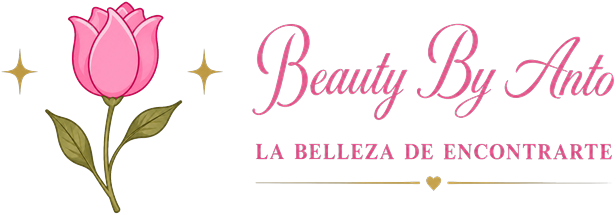
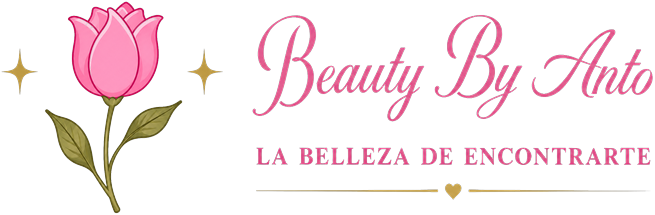
Add files via upload

diff --git a/metodos-pago.html b/metodos-pago.html
@@ -50,7 +50,8 @@
       display:flex; align-items:center;
       text-decoration:none; color:var(--ink);
     }
-    .brand .logo-header{ height:52px; width:auto; display:block; }
+    .brand .logo-desktop{ height:52px; width:auto; display:block; }
+    .brand .logo-mobile{ display:none; }
     .back-link{
       text-decoration:none; color:var(--fuchsia-dark); font-weight:600; font-size:14px;
       display:inline-flex; align-items:center; gap:6px;
@@ -58,7 +59,8 @@
 
     @media (max-width:480px){
       .topbar{ flex-wrap:wrap; gap:8px; }
-      .brand .logo-header{ height:64px; }
+      .brand .logo-desktop{ display:none; }
+      .brand .logo-mobile{ display:block; height:48px; width:auto; }
       .back-link{ font-size:13px; }
     }
 
@@ -150,7 +152,8 @@
   <header class="site-header">
     <div class="container topbar">
       <a class="brand" href="inicio.html">
-        <img class="logo-header" src="imagotipo-header.png" alt="Beauty By Anto — La belleza de encontrarte">
+        <img class="logo-desktop" src="imagotipo-header.png" alt="Beauty By Anto — La belleza de encontrarte">
+        <img class="logo-mobile" src="imagotipo-header-mobile.png" alt="Beauty By Anto — La belleza de encontrarte">
       </a>
       <a class="back-link" href="inicio.html">‹ Volver a la tienda</a>
     </div>

diff --git a/contacto.html b/contacto.html
@@ -72,9 +72,11 @@
       text-decoration:none; color:var(--ink);
     }
 
-    .brand .logo-header{
+    .brand .logo-desktop{
       height:64px; width:auto; display:block; flex-shrink:0;
     }
+
+    .brand .logo-mobile{ display:none; }
 
     nav.main-nav{ display:flex; gap:6px; }
 
@@ -360,7 +362,10 @@
         grid-column:2; grid-row:1;
         flex-direction:column; align-items:center; text-align:center; gap:2px;
       }
-      .brand .logo-header{ height:84px; width:auto; margin:0 auto; }
+      .brand .logo-desktop{ display:none; }
+      .brand .logo-mobile{
+        display:block; height:56px; width:auto; margin:0 auto;
+      }
 
       nav.main-nav{
         display:none; position:absolute; top:100%; left:0; right:0;
@@ -623,7 +628,8 @@
   <header class="site-header">
     <div class="container topbar">
       <a class="brand" href="#top">
-        <img class="logo-header" src="imagotipo-header.png" alt="Beauty By Anto — La belleza de encontrarte">
+        <img class="logo-desktop" src="imagotipo-header.png" alt="Beauty By Anto — La belleza de encontrarte">
+        <img class="logo-mobile" src="imagotipo-header-mobile.png" alt="Beauty By Anto — La belleza de encontrarte">
       </a>
 
       <button class="menu-toggle" id="menuToggle" aria-label="Abrir menú" aria-expanded="false">

diff --git a/index.html b/index.html
@@ -72,9 +72,11 @@
       text-decoration:none; color:var(--ink);
     }
 
-    .brand .logo-header{
+    .brand .logo-desktop{
       height:64px; width:auto; display:block; flex-shrink:0;
     }
+
+    .brand .logo-mobile{ display:none; }
 
     nav.main-nav{ display:flex; gap:6px; }
 
@@ -360,7 +362,10 @@
         grid-column:2; grid-row:1;
         flex-direction:column; align-items:center; text-align:center; gap:2px;
       }
-      .brand .logo-header{ height:84px; width:auto; margin:0 auto; }
+      .brand .logo-desktop{ display:none; }
+      .brand .logo-mobile{
+        display:block; height:56px; width:auto; margin:0 auto;
+      }
 
       nav.main-nav{
         display:none; position:absolute; top:100%; left:0; right:0;
@@ -600,7 +605,8 @@
   <header class="site-header">
     <div class="container topbar">
       <a class="brand" href="#top">
-        <img class="logo-header" src="imagotipo-header.png" alt="Beauty By Anto — La belleza de encontrarte">
+        <img class="logo-desktop" src="imagotipo-header.png" alt="Beauty By Anto — La belleza de encontrarte">
+        <img class="logo-mobile" src="imagotipo-header-mobile.png" alt="Beauty By Anto — La belleza de encontrarte">
       </a>
 
       <button class="menu-toggle" id="menuToggle" aria-label="Abrir menú" aria-expanded="false">

diff --git a/inicio.html b/inicio.html
@@ -72,9 +72,11 @@
       text-decoration:none; color:var(--ink);
     }
 
-    .brand .logo-header{
+    .brand .logo-desktop{
       height:64px; width:auto; display:block; flex-shrink:0;
     }
+
+    .brand .logo-mobile{ display:none; }
 
     nav.main-nav{ display:flex; gap:6px; }
 
@@ -360,7 +362,10 @@
         grid-column:2; grid-row:1;
         flex-direction:column; align-items:center; text-align:center; gap:2px;
       }
-      .brand .logo-header{ height:84px; width:auto; margin:0 auto; }
+      .brand .logo-desktop{ display:none; }
+      .brand .logo-mobile{
+        display:block; height:56px; width:auto; margin:0 auto;
+      }
 
       nav.main-nav{
         display:none; position:absolute; top:100%; left:0; right:0;
@@ -600,7 +605,8 @@
   <header class="site-header">
     <div class="container topbar">
       <a class="brand" href="#top">
-        <img class="logo-header" src="imagotipo-header.png" alt="Beauty By Anto — La belleza de encontrarte">
+        <img class="logo-desktop" src="imagotipo-header.png" alt="Beauty By Anto — La belleza de encontrarte">
+        <img class="logo-mobile" src="imagotipo-header-mobile.png" alt="Beauty By Anto — La belleza de encontrarte">
       </a>
 
       <button class="menu-toggle" id="menuToggle" aria-label="Abrir menú" aria-expanded="false">

diff --git a/nosotros.html b/nosotros.html
@@ -72,9 +72,11 @@
       text-decoration:none; color:var(--ink);
     }
 
-    .brand .logo-header{
+    .brand .logo-desktop{
       height:64px; width:auto; display:block; flex-shrink:0;
     }
+
+    .brand .logo-mobile{ display:none; }
 
     nav.main-nav{ display:flex; gap:6px; }
 
@@ -360,7 +362,10 @@
         grid-column:2; grid-row:1;
         flex-direction:column; align-items:center; text-align:center; gap:2px;
       }
-      .brand .logo-header{ height:84px; width:auto; margin:0 auto; }
+      .brand .logo-desktop{ display:none; }
+      .brand .logo-mobile{
+        display:block; height:56px; width:auto; margin:0 auto;
+      }
 
       nav.main-nav{
         display:none; position:absolute; top:100%; left:0; right:0;
@@ -604,7 +609,8 @@
   <header class="site-header">
     <div class="container topbar">
       <a class="brand" href="#top">
-        <img class="logo-header" src="imagotipo-header.png" alt="Beauty By Anto — La belleza de encontrarte">
+        <img class="logo-desktop" src="imagotipo-header.png" alt="Beauty By Anto — La belleza de encontrarte">
+        <img class="logo-mobile" src="imagotipo-header-mobile.png" alt="Beauty By Anto — La belleza de encontrarte">
       </a>
 
       <button class="menu-toggle" id="menuToggle" aria-label="Abrir menú" aria-expanded="false">

diff --git a/productos.html b/productos.html
@@ -72,9 +72,11 @@
       text-decoration:none; color:var(--ink);
     }
 
-    .brand .logo-header{
+    .brand .logo-desktop{
       height:64px; width:auto; display:block; flex-shrink:0;
     }
+
+    .brand .logo-mobile{ display:none; }
 
     nav.main-nav{ display:flex; gap:6px; }
 
@@ -360,7 +362,10 @@
         grid-column:2; grid-row:1;
         flex-direction:column; align-items:center; text-align:center; gap:2px;
       }
-      .brand .logo-header{ height:84px; width:auto; margin:0 auto; }
+      .brand .logo-desktop{ display:none; }
+      .brand .logo-mobile{
+        display:block; height:56px; width:auto; margin:0 auto;
+      }
 
       nav.main-nav{
         display:none; position:absolute; top:100%; left:0; right:0;
@@ -650,7 +655,8 @@
   <header class="site-header">
     <div class="container topbar">
       <a class="brand" href="#top">
-        <img class="logo-header" src="imagotipo-header.png" alt="Beauty By Anto — La belleza de encontrarte">
+        <img class="logo-desktop" src="imagotipo-header.png" alt="Beauty By Anto — La belleza de encontrarte">
+        <img class="logo-mobile" src="imagotipo-header-mobile.png" alt="Beauty By Anto — La belleza de encontrarte">
       </a>
 
       <button class="menu-toggle" id="menuToggle" aria-label="Abrir menú" aria-expanded="false">
